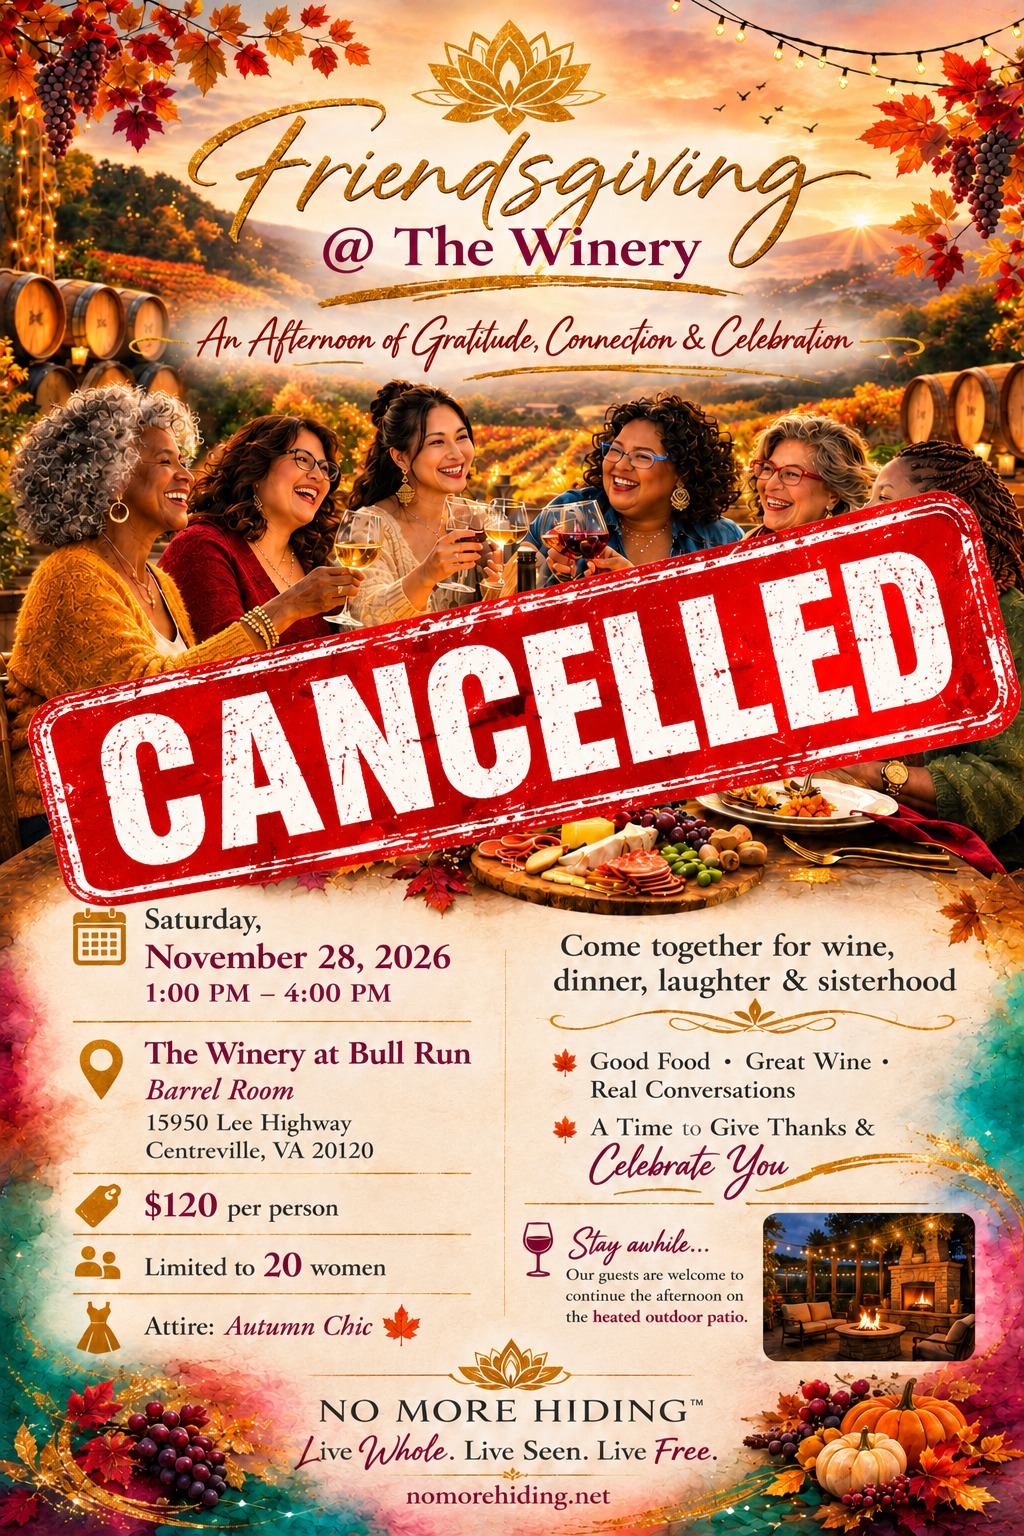
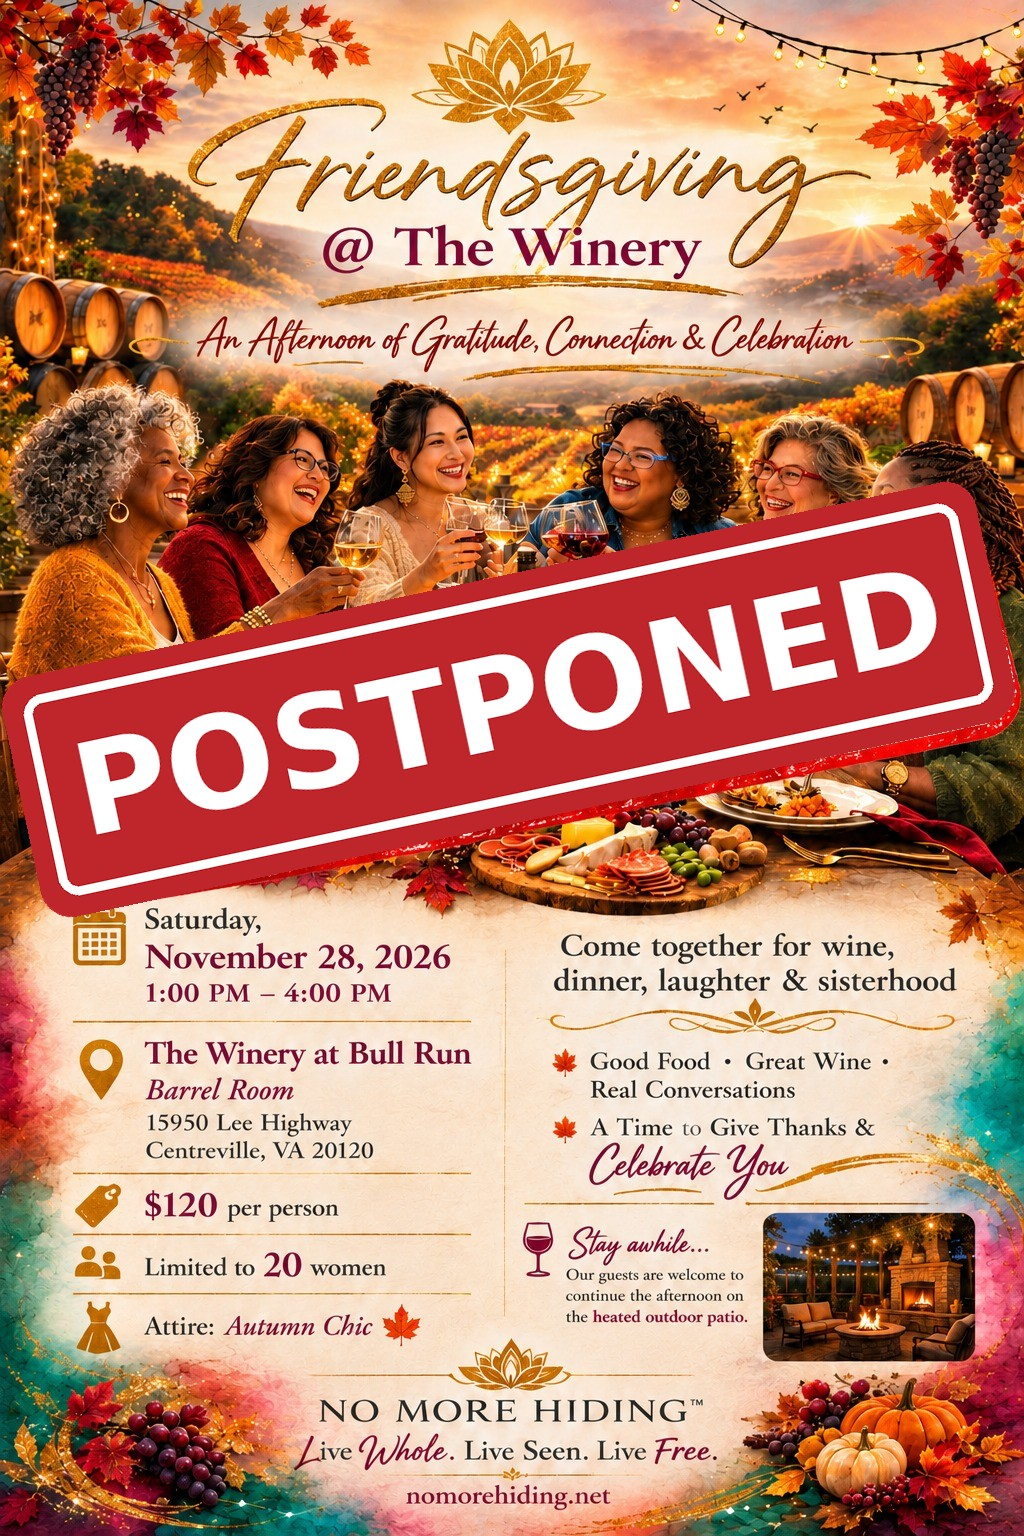
Updated image for Friendsgiving to read "Postponed"

Changed region(s): [[0.0, 0.3125, 1.0, 0.5938]]

diff --git a/index.html b/index.html
@@ -287,7 +287,7 @@
             <div class="flyer-img-wrap">
               <img
                 src="/images/events/cancel-friendsgiving.jpeg"
-                alt="Friendsgiving at The Winery has been cancelled — a new date will be announced"
+                alt="Friendsgiving at The Winery has been postponed — a new date will be announced"
                 loading="lazy"
               />
               <div class="flyer-overlay" aria-hidden="true">

diff --git a/events/index.html b/events/index.html
@@ -63,7 +63,7 @@
           <div class="flyer-img-wrap">
             <img
               src="/images/events/cancel-friendsgiving.jpeg"
-              alt="Friendsgiving at The Winery has been cancelled — a new date will be announced"
+              alt="Friendsgiving at The Winery has been postponed — a new date will be announced"
               loading="lazy"
             >
             <div class="flyer-overlay" aria-hidden="true">
